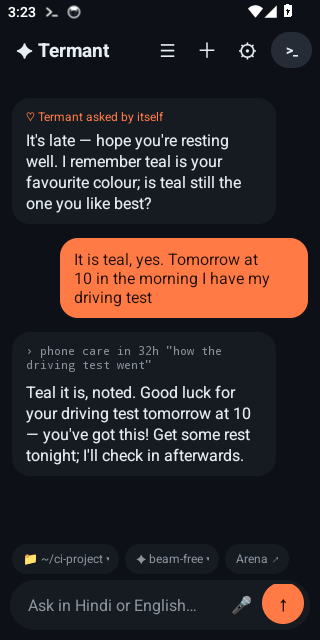
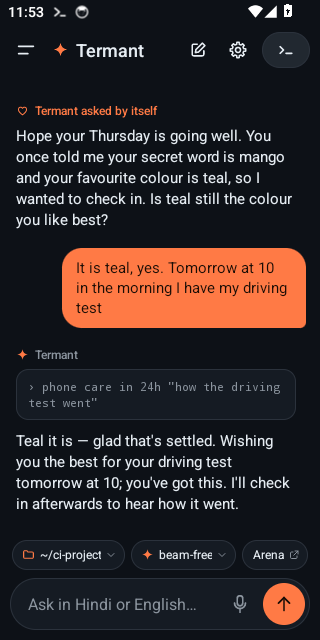
Docs: screenshots of the new look

diff --git a/docs/android.md b/docs/android.md
@@ -96,7 +96,7 @@ back, and *Theme* switches between dark and light, the terminal included. Both
 apply at once.
 
 Earlier chats are kept: they are listed on the new-chat screen and under the
-**☰** button, and opening one continues it where it stopped (it carries on in
+menu button at the top left (a panel slides in from the edge), and opening one continues it where it stopped (it carries on in
 the same OpenCode session, so the agent still knows what was said).
 
 The real Ubuntu terminal is one tap away: **>_** at the top. **Chat**
@@ -263,7 +263,7 @@ backups automatically; models of other services have to be ticked under
 happens at the moment OpenCode refuses, not earlier. Picking an OpenCode model
 by hand makes Termant try it again at once.
 
-The **Arena ↗** chip opens the arena.ai website in your browser, where you
+The **Arena** chip opens the arena.ai website in your browser, where you
 sign in and use it. Arena.ai offers no way for other apps to use its agent, so
 it is not connected to the chat and cannot control the phone or Ubuntu.
 
